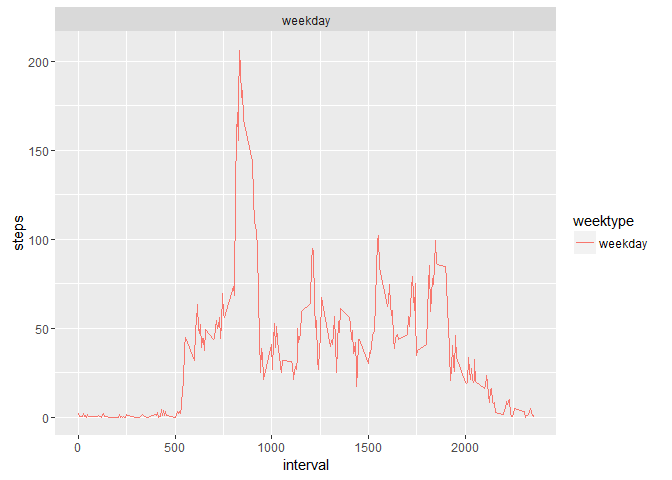
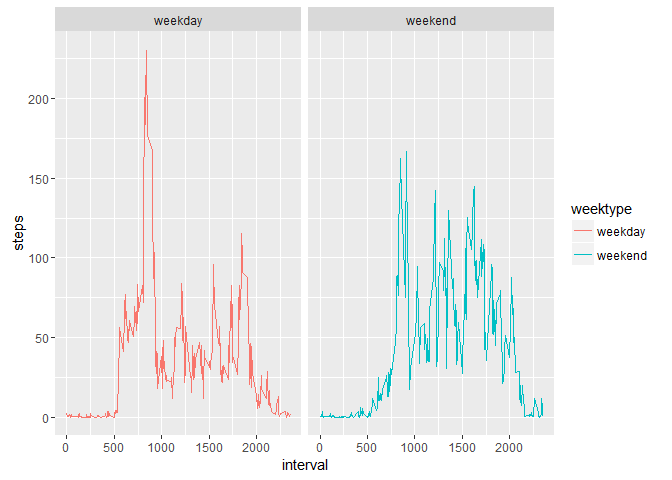
Commit 07 fbruary 2016

diff --git a/RR-Pr1W1.html b/RR-Pr1W1.html
@@ -225,8 +225,19 @@ mean_steps_2</code></pre>
 <li><p>Make a panel plot containing a time series plot (i.e. type = “l”) of the 5-minute interval (x-axis) and the average number of steps taken, averaged across all weekday days or weekend days (y-axis).</p></li>
 <li><p>Using the function mutate of dplyr package it is possible to create the factor weektype</p></li>
 </ol>
-<pre class="r"><code>data2 &lt;- mutate(data2, weektype = ifelse(weekdays(data2$date) == &quot;Saturday&quot; | weekdays(data2$date) == &quot;Sunday&quot;, &quot;weekend&quot;, &quot;weekday&quot;))
-data2$weektype &lt;- as.factor(data2$weektype)
+<pre class="r"><code>weekendtest&lt;-(weekdays(as.Date(data2$date))==&quot;domenica&quot;|weekdays(as.Date( data2$date))==&quot;sabato&quot;)
+weektest&lt;-(weekdays(as.Date(data2$date))!=&quot;domenica&quot;&amp;&amp; weekdays(as.Date(data2$date))!=&quot;sabato&quot;)
+data2$weektype[weektest]&lt;-&quot;weekday&quot;
+data2$weektype[weekendtest]&lt;-&quot;weekend&quot;
+data2$weektype&lt;-as.factor(data2$weektype)
+str(data2$weektype)</code></pre>
+<pre><code>##  Factor w/ 2 levels &quot;weekday&quot;,&quot;weekend&quot;: 1 1 1 1 1 1 1 1 1 1 ...</code></pre>
+<pre class="r"><code>table(data2$weektype)</code></pre>
+<pre><code>## 
+## weekday weekend 
+##   12960    4608</code></pre>
+<pre class="r"><code>data2 &lt;- mutate(data2, weektype)
+#data2$weektype &lt;- as.factor(data2$weektype)
 head(data2)</code></pre>
 <pre><code>##       steps       date interval weektype
 ## 1 1.7169811 2012-10-01        0  weekday
@@ -244,7 +255,7 @@ head(data2)</code></pre>
 
 p &lt;- ggplot(interval2, aes(x=interval, y=steps, color = weektype)) + geom_line()+facet_wrap(~ weektype, ncol = 2, nrow=1)
 print(p)</code></pre>
[2 lines of base64/hex data omitted]
 </div>
 
 

diff --git a/RR-Pr1W1.md b/RR-Pr1W1.md
@@ -277,8 +277,31 @@ For this part the weekdays() will come handy. Use the dataset with the filled-in
 1. Using the function mutate of dplyr package it is possible to create the factor weektype
 
 ```r
-data2 <- mutate(data2, weektype = ifelse(weekdays(data2$date) == "Saturday" | weekdays(data2$date) == "Sunday", "weekend", "weekday"))
-data2$weektype <- as.factor(data2$weektype)
+weekendtest<-(weekdays(as.Date(data2$date))=="domenica"|weekdays(as.Date( data2$date))=="sabato")
+weektest<-(weekdays(as.Date(data2$date))!="domenica"&& weekdays(as.Date(data2$date))!="sabato")
+data2$weektype[weektest]<-"weekday"
+data2$weektype[weekendtest]<-"weekend"
+data2$weektype<-as.factor(data2$weektype)
+str(data2$weektype)
+```
+
+```
+##  Factor w/ 2 levels "weekday","weekend": 1 1 1 1 1 1 1 1 1 1 ...
+```
+
+```r
+table(data2$weektype)
+```
+
+```
+## 
+## weekday weekend 
+##   12960    4608
+```
+
+```r
+data2 <- mutate(data2, weektype)
+#data2$weektype <- as.factor(data2$weektype)
 head(data2)
 ```
 
